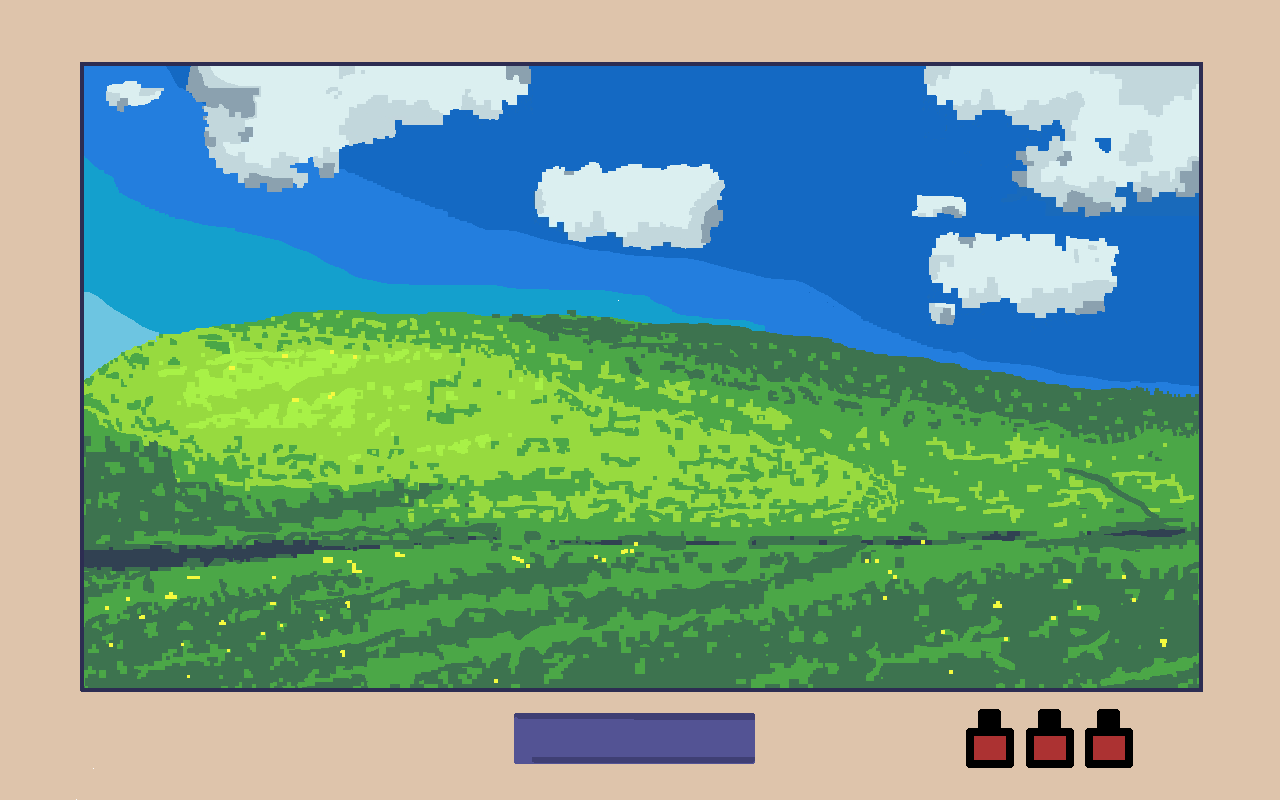
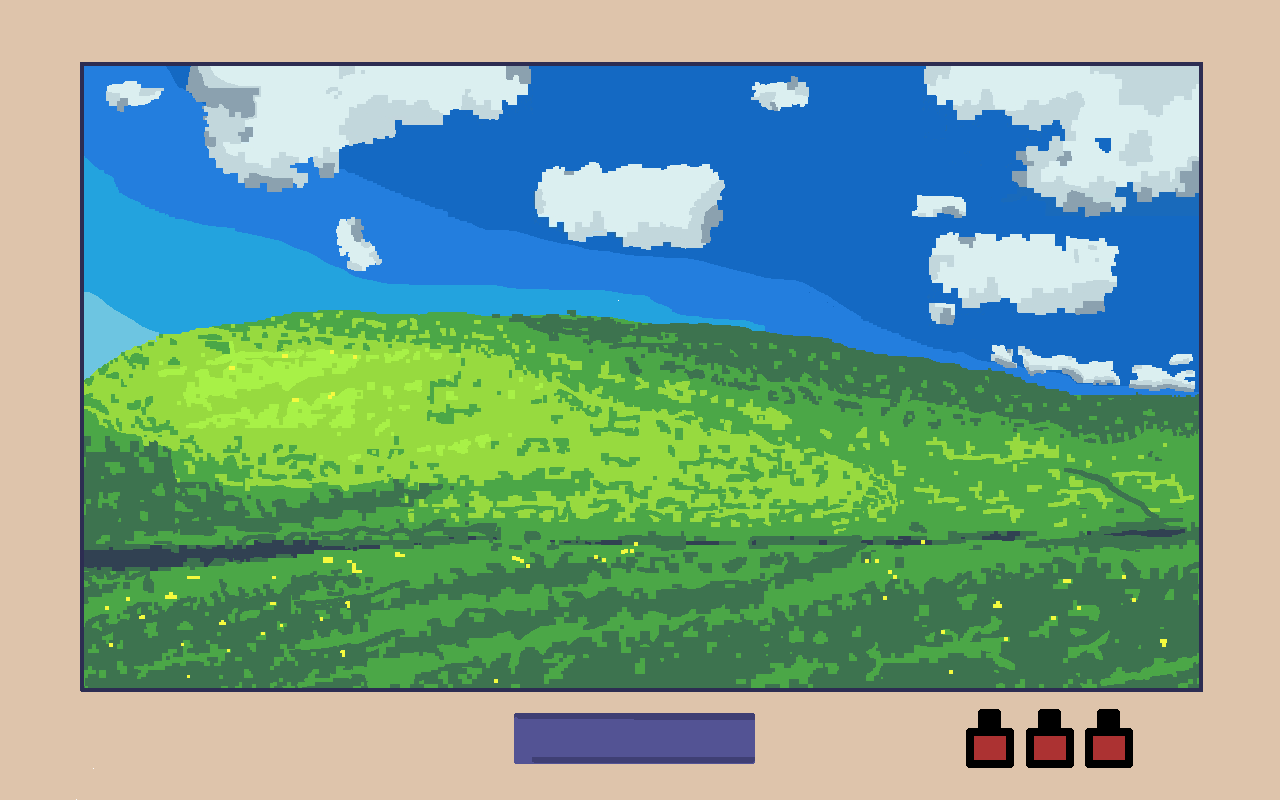
Updates for BG

Changed region(s): [[0.75, 0.4375, 0.9375, 0.5], [0.25, 0.25, 0.3125, 0.3438], [0.5625, 0.0938, 0.6562, 0.1562]]

diff --git a/CipherListTerminal/CipherListTerminal/MainGame.cs b/CipherListTerminal/CipherListTerminal/MainGame.cs
@@ -155,7 +155,7 @@ namespace CipherListTerminal
 			_armadaFont = Content.Load<SpriteFont>("Fonts/ArmadaBold16");
 			_farawayFont = Content.Load<SpriteFont>("Fonts/Faraway16");
 
-			_backgroundTexture = Content.Load<Texture2D>("Sprites/RoughBG16");
+			_backgroundTexture = Content.Load<Texture2D>("Sprites/Background");
 			_spriteSheet = Content.Load<Texture2D>("Sprites/spritesheetfinal");
 
 			_flickingASwitch = Content.Load<SoundEffect>("SFX/flickingaswitch");
